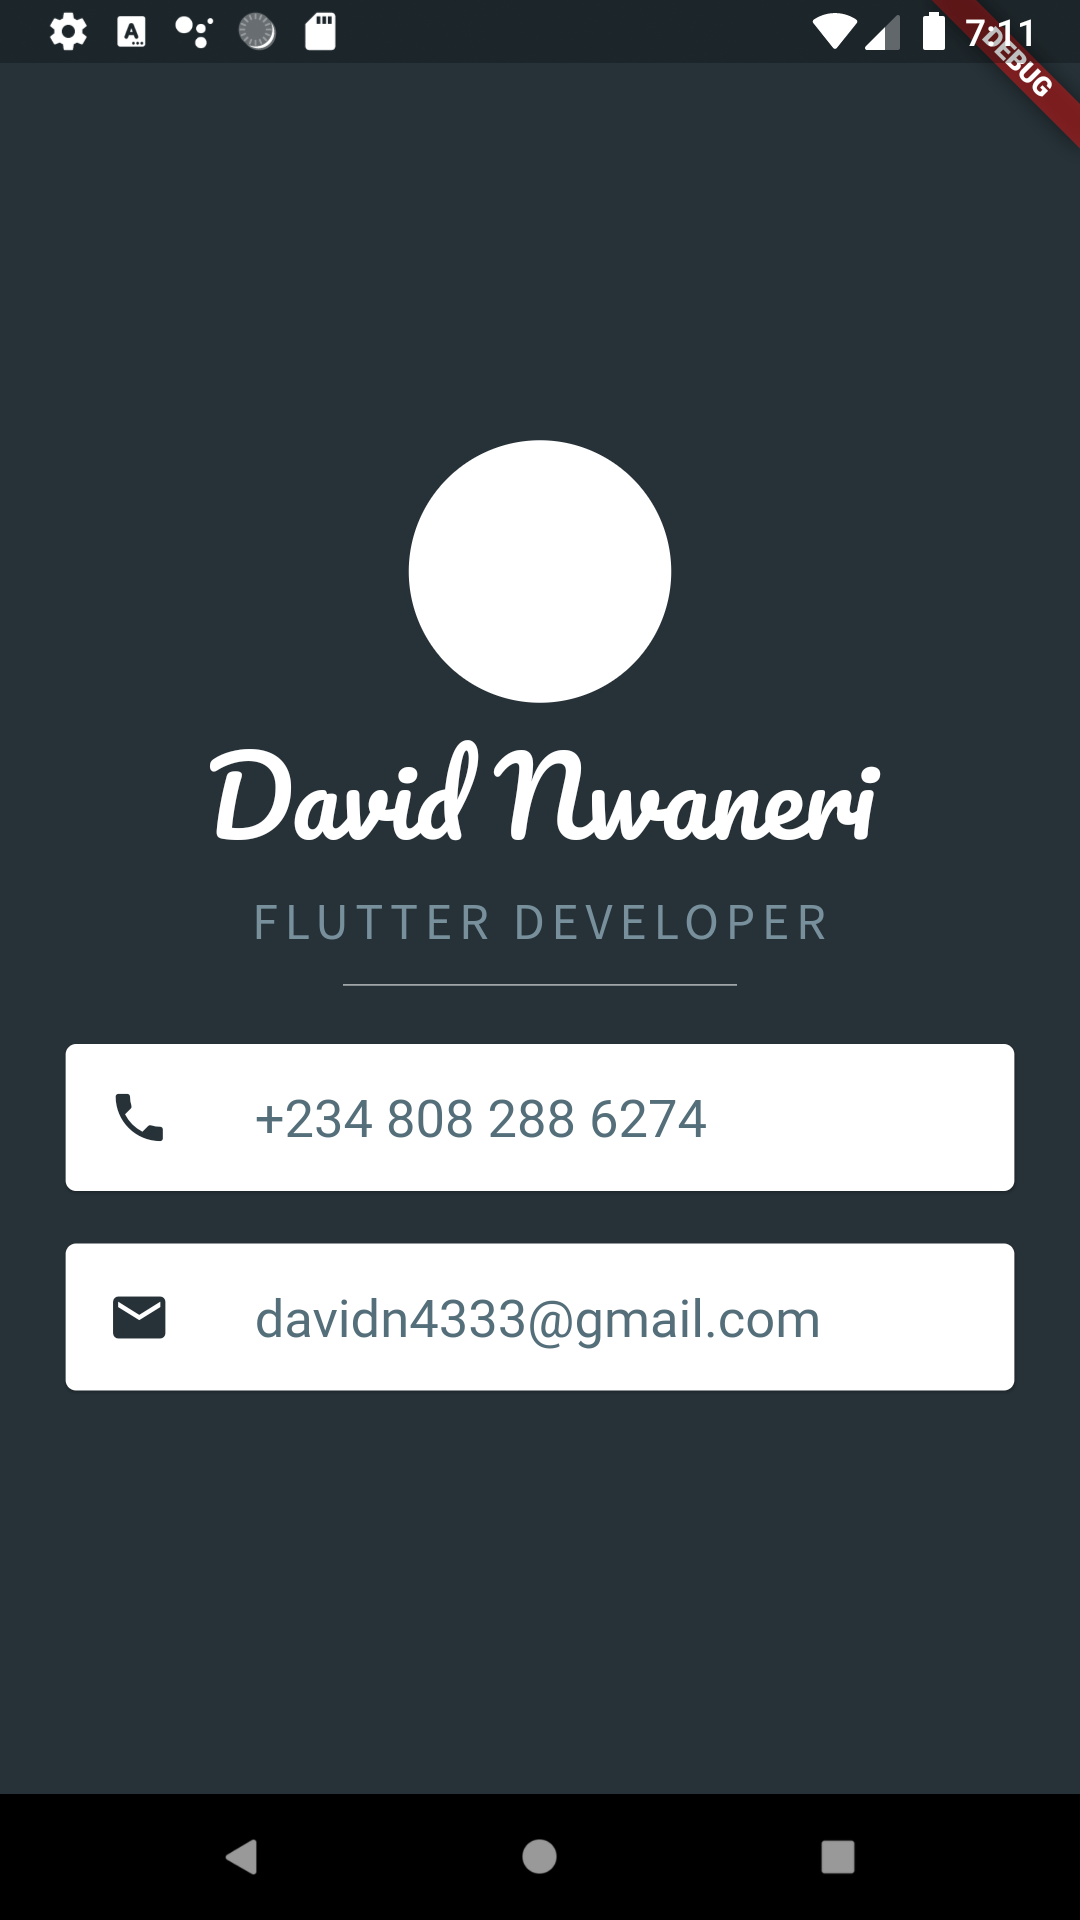
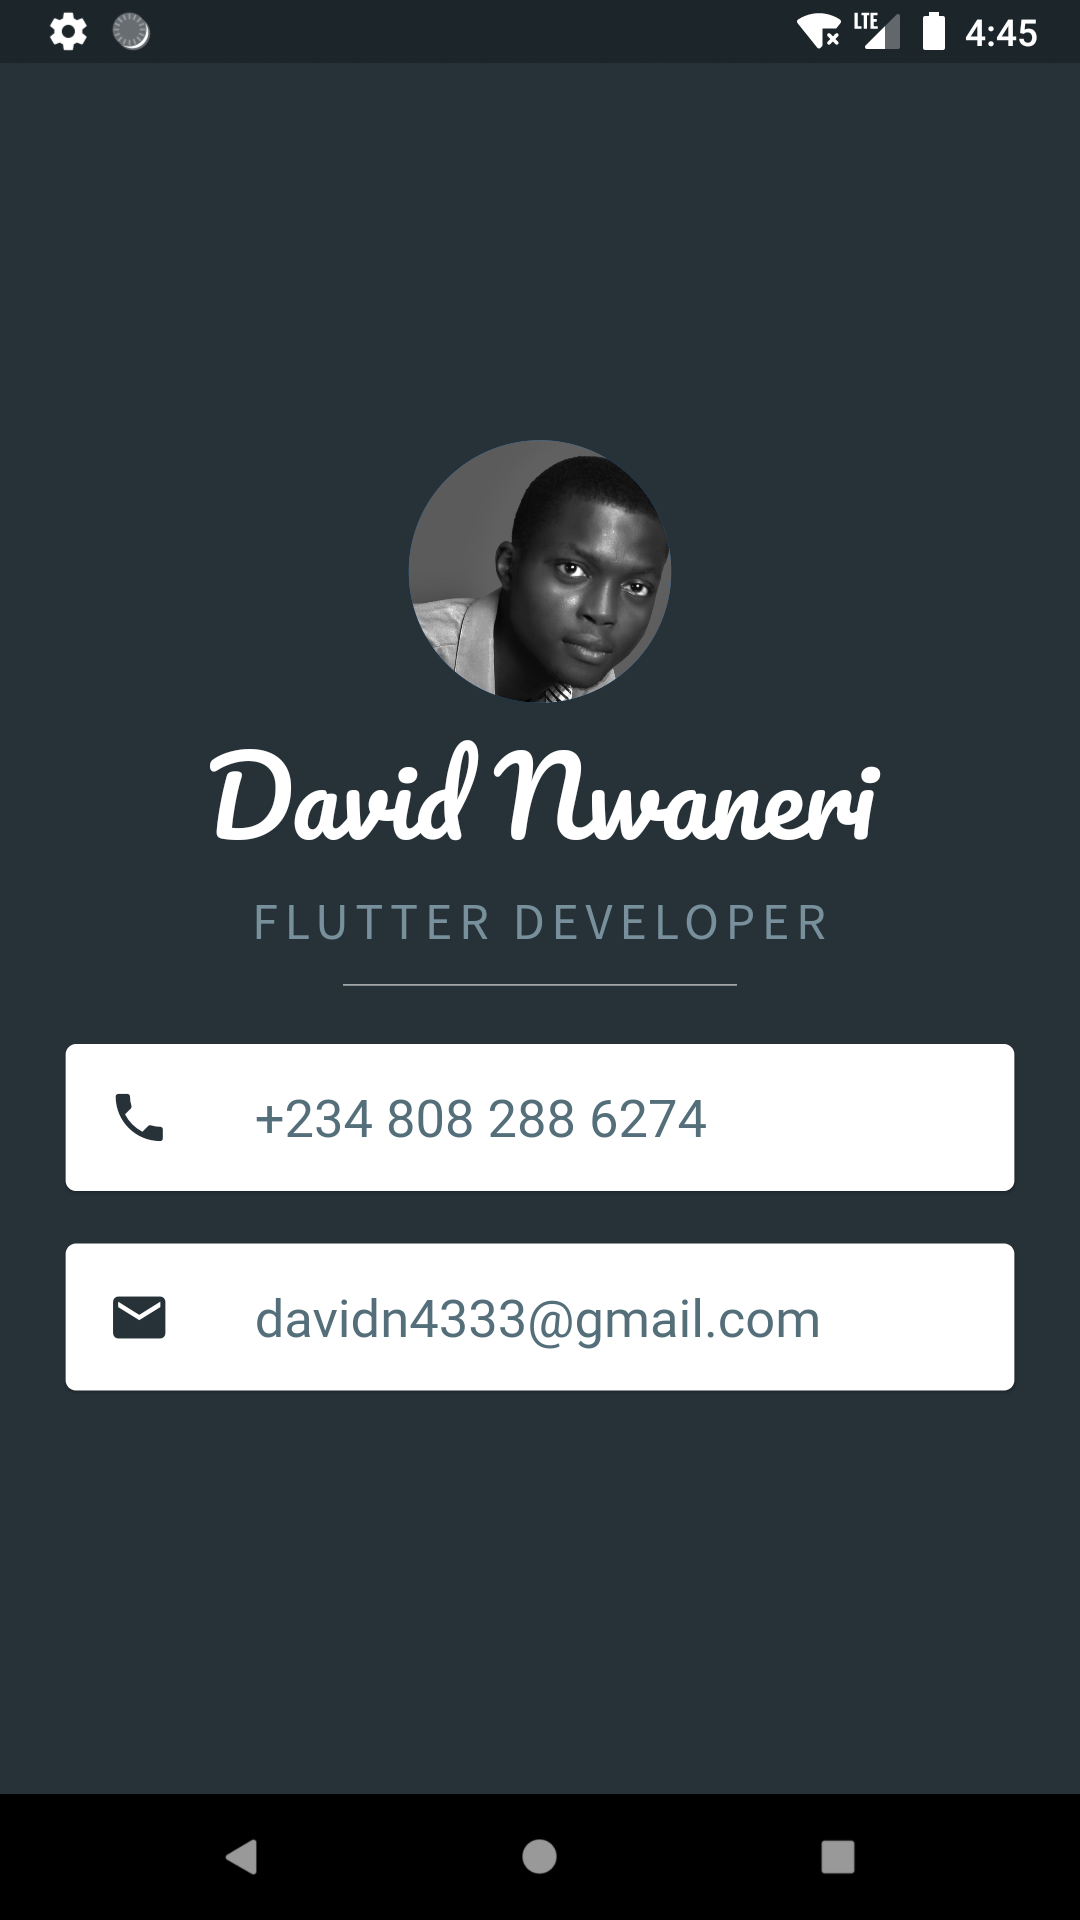
added an image of myself

diff --git a/micard/lib/main.dart b/micard/lib/main.dart
@@ -11,6 +11,7 @@ class MiCard extends StatelessWidget {
   @override
   Widget build(BuildContext context) {
     return MaterialApp(
+      debugShowCheckedModeBanner: false,
       home: Scaffold(
         backgroundColor: Colors.blueGrey[900],
         body: SafeArea(
@@ -18,9 +19,8 @@ class MiCard extends StatelessWidget {
             mainAxisAlignment: MainAxisAlignment.center,
             children: <Widget>[
               CircleAvatar(
-                radius: 50.0,
-                backgroundColor: Color(0xFFFFFFFF),
-              ),
+                  radius: 50.0,
+                  backgroundImage: AssetImage('images/davidn.JPG')),
               Text(
                 'David Nwaneri',
                 style: TextStyle(
